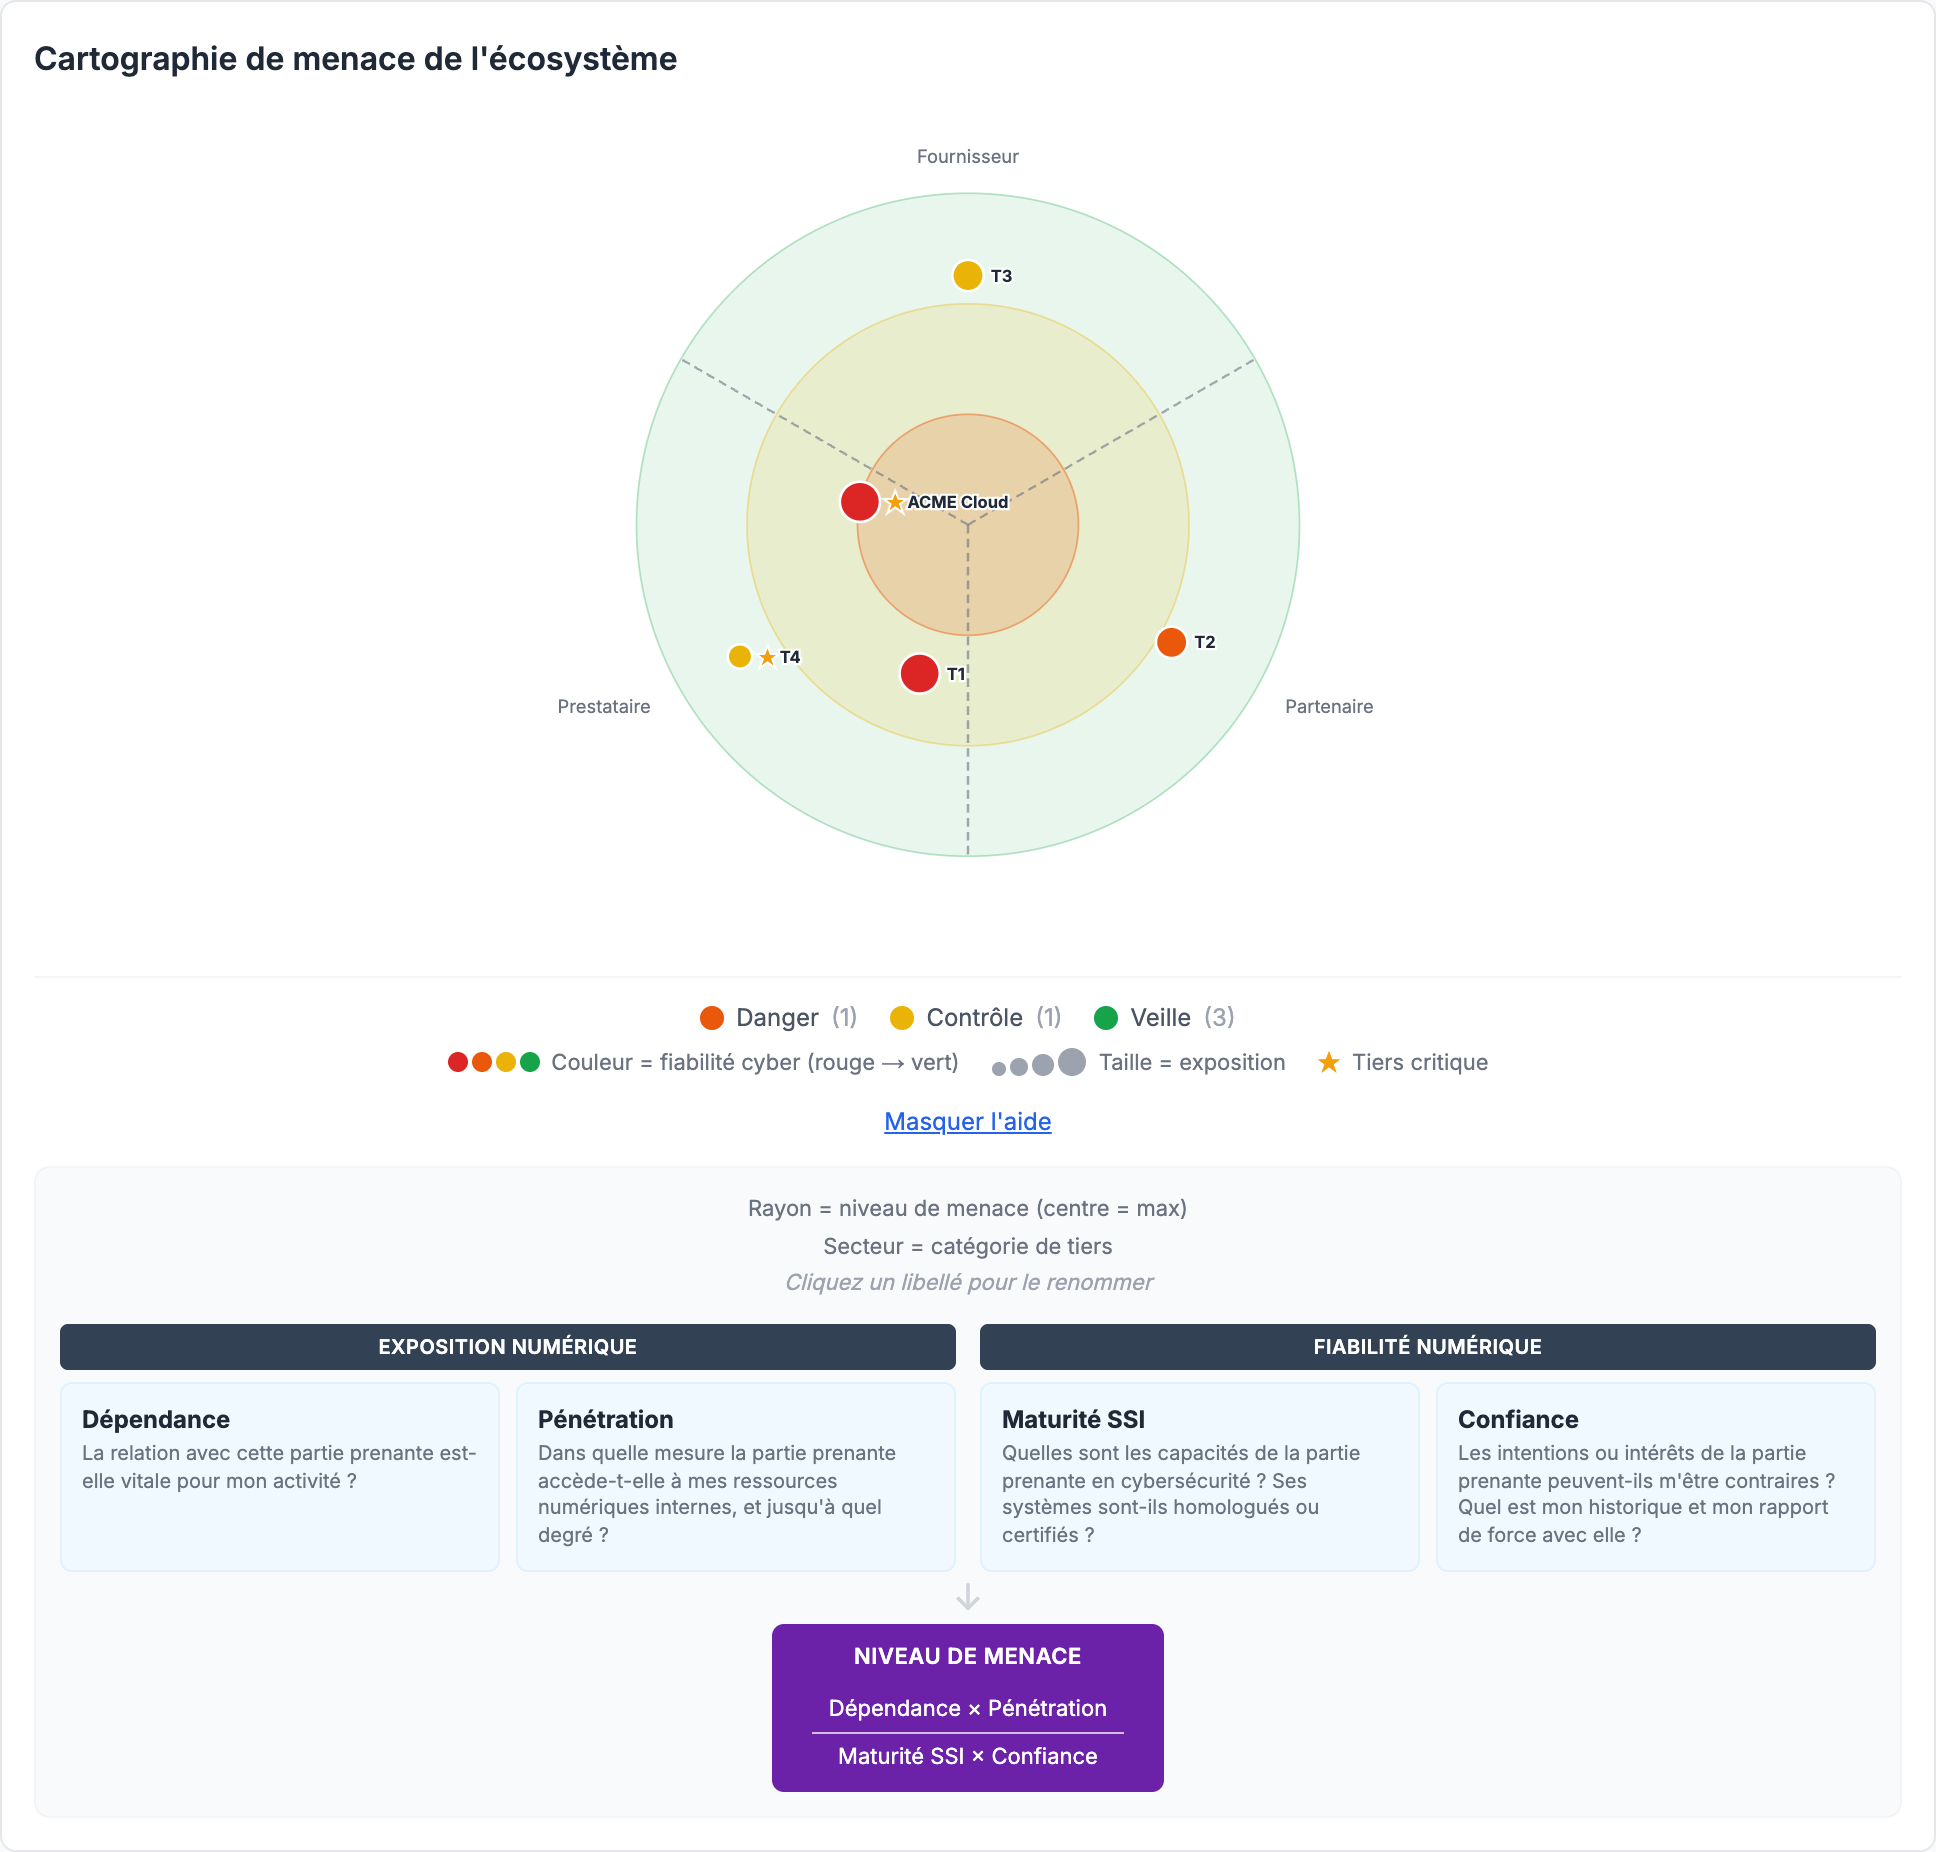
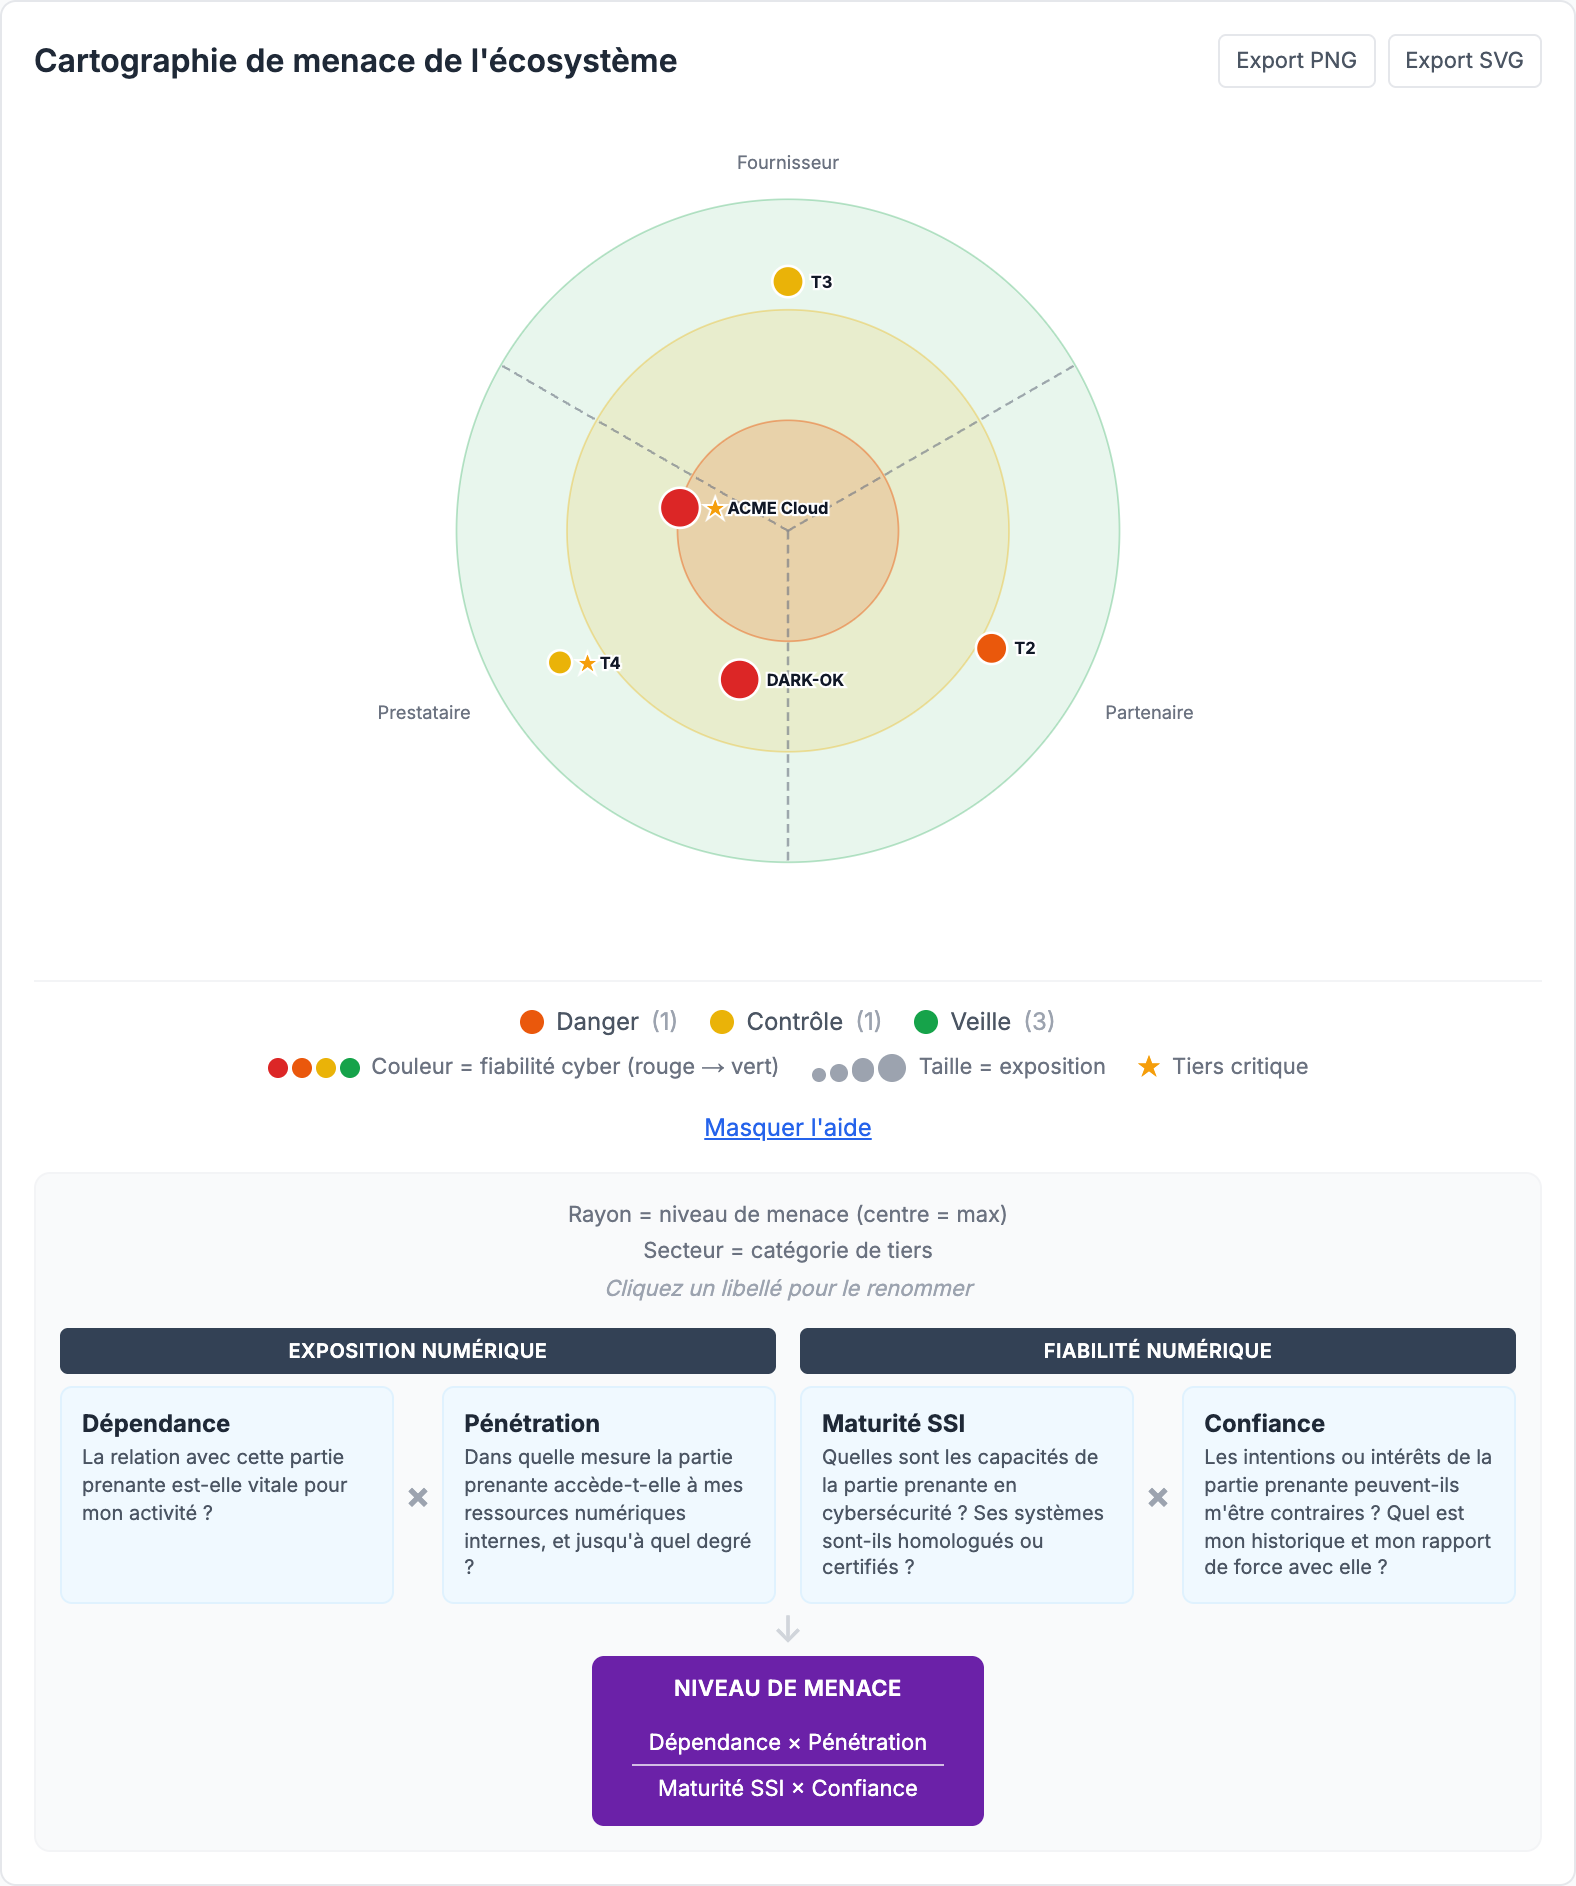
fix(radar): lisibilité thème sombre + schéma de calcul + bulle + édition inline
- Thème sombre : variantes dark: sur la carte radar, les boutons d'export, la
  légende, le panneau d'aide, les libellés SVG (fill/halo), le schéma de calcul
  et l'info-bulle — tout devient lisible en sombre.
- Schéma de calcul du niveau de menace : les TITRES des 4 critères (Dépendance,
  Pénétration, Maturité SSI, Confiance) sont désormais visibles au-dessus de leur
  description, et un signe « × » explicite la multiplication de chaque groupe
  (exposition = dépendance × pénétration, fiabilité = maturité × confiance).
- Info-bulle de survol : agrandie (210×140), nom long du tiers sur sa propre ligne,
  sous-critères répartis sur 2 lignes (plus de texte tronqué).
- Édition inline du nom court : la bulle de survol est rendue AVANT les points pour
  ne plus intercepter le clic sur le libellé (foreignObject bloquait pointer-events).
  Vérifié en runtime (modification persistée).

tsc + 348 tests verts · build OK.

diff --git a/src/components/EcosystemRadar.tsx b/src/components/EcosystemRadar.tsx
@@ -142,14 +142,14 @@ export default function EcosystemRadar({ parties, onSelect, showRefs = true, hid
   }
 
   return (
-    <div className="rounded-lg border border-gray-200 bg-white p-4">
+    <div className="rounded-lg border border-gray-200 bg-white p-4 dark:border-gray-700">
       <div className="mb-3 flex items-center justify-between gap-2">
-        {!hideHeader ? <h3 className="font-semibold text-gray-800">{r.title}</h3> : <span />}
+        {!hideHeader ? <h3 className="font-semibold text-gray-800 dark:text-gray-100">{r.title}</h3> : <span />}
         <div className="flex items-center gap-1.5">
           <button type="button" onClick={exportPNG}
-            className="rounded border border-gray-200 px-2 py-1 text-[11px] text-gray-600 hover:bg-gray-50">{r.exportPng}</button>
+            className="rounded border border-gray-200 px-2 py-1 text-[11px] text-gray-600 hover:bg-gray-50 dark:border-gray-600 dark:text-gray-300 dark:hover:bg-gray-700">{r.exportPng}</button>
           <button type="button" onClick={exportSVG}
-            className="rounded border border-gray-200 px-2 py-1 text-[11px] text-gray-600 hover:bg-gray-50">{r.exportSvg}</button>
+            className="rounded border border-gray-200 px-2 py-1 text-[11px] text-gray-600 hover:bg-gray-50 dark:border-gray-600 dark:text-gray-300 dark:hover:bg-gray-700">{r.exportSvg}</button>
         </div>
       </div>
 
@@ -186,13 +186,43 @@ export default function EcosystemRadar({ parties, onSelect, showRefs = true, hid
                     stroke="#6b7280" strokeOpacity={0.6} strokeWidth={1.3} strokeDasharray="5 3" />
                 )}
                 <text x={lx} y={ly} textAnchor={anchor} dominantBaseline="middle"
-                  className="fill-gray-500" fontSize={10.5}>
+                  className="fill-gray-500 dark:fill-gray-400" fontSize={10.5}>
                   {shortLabel(typeLabel(ty))}
                   <title>{typeLabel(ty)}</title>
                 </text>
               </g>
             )
           })}
+
+          {/* Détail au survol — rendu AVANT les points pour ne pas intercepter le clic
+              d'édition du libellé (foreignObject bloque parfois pointer-events). */}
+          {active && editing === null && (() => {
+            const a3 = t.workshop.a3
+            const aR = EXPO_RADIUS[expositionLevel(active.exposition, bornes.maxExpo)]
+            const tipW = 210, tipH = 140
+            const VB_L = -58, VB_R = 538, VB_B = 480
+            let tx = active.x + aR + 2
+            if (tx + tipW > VB_R) tx = active.x - aR - tipW - 2
+            tx = Math.max(VB_L, Math.min(tx, VB_R - tipW))
+            let ty = active.y - tipH - 2
+            if (ty < 2) ty = active.y + aR + 2
+            ty = Math.max(2, Math.min(ty, VB_B - tipH))
+            return (
+              <foreignObject x={tx} y={ty} width={tipW} height={tipH} style={{ pointerEvents: 'none', overflow: 'visible' }}>
+                <div className="inline-block rounded-md border border-gray-200 bg-white/95 p-2 text-[10px] leading-snug shadow-md dark:border-gray-700 dark:bg-gray-800/95">
+                  <div className="flex items-center gap-1">
+                    <span className="rounded bg-gray-200 px-1 py-px text-[9px] font-bold text-gray-700 dark:bg-gray-700 dark:text-gray-200">{active.nomCourt || active.ref}</span>
+                    <span className="text-gray-500 dark:text-gray-400">{typeLabel(active.type)}</span>
+                  </div>
+                  <div className="mt-0.5 font-semibold text-gray-800 dark:text-gray-100">{active.nom}</div>
+                  <div className="mt-1 text-gray-600 dark:text-gray-300">{a3.ppDependanceLabel} {active.dependance.toFixed(1)} · {a3.ppPenetrationLabel} {active.penetration.toFixed(1)}</div>
+                  <div className="text-gray-600 dark:text-gray-300">{a3.ppMaturiteLabel} {active.maturite.toFixed(1)} · {a3.ppConfianceLabel} {active.confiance.toFixed(1)}</div>
+                  <div className="mt-0.5 text-gray-600 dark:text-gray-300">{a3.ppExpLabel} {active.exposition.toFixed(1)} · {a3.ppFiabLabel} {active.fiabilite.toFixed(1)}</div>
+                  <div className="font-semibold" style={{ color: ZONE_COLOR[active.zone] }}>{r.menaceLabel} {active.menace.toFixed(2)}</div>
+                </div>
+              </foreignObject>
+            )
+          })()}
 
           {/* Points = parties prenantes. Couleur = fiabilité · taille = exposition ·
               ★ (avant le libellé) = tiers critique · libellé = nom court ou réf T1… */}
@@ -240,12 +270,13 @@ export default function EcosystemRadar({ parties, onSelect, showRefs = true, hid
                     />
                   </foreignObject>
                 ) : (
-                  // ★ (si critique) juste avant le libellé, à droite du point — halo blanc.
+                  // ★ (si critique) juste avant le libellé, à droite du point — halo
+                  // (blanc en clair, sombre en thème sombre) pour rester lisible sur les zones.
                   <text
                     x={labelX} y={p.y + 3.5}
                     fontSize={isActive ? 11 : 9.5} fontWeight={700}
-                    fill="#1f2937" stroke="#ffffff" strokeWidth={2.5}
-                    paintOrder="stroke"
+                    strokeWidth={2.5} paintOrder="stroke"
+                    className="fill-gray-900 [stroke:#fff] dark:fill-gray-50 dark:[stroke:#0f172a]"
                     onClick={editable ? (e => { e.stopPropagation(); setEditing(p.id) }) : undefined}
                     style={{ cursor: editable ? 'text' : 'default', pointerEvents: editable ? 'auto' : 'none' }}
                   >
@@ -256,47 +287,12 @@ export default function EcosystemRadar({ parties, onSelect, showRefs = true, hid
               </g>
             )
           })}
-
-          {/* Détail au survol — bulle au coin du point, qui bascule pour rester dans le cadre */}
-          {active && editing === null && (() => {
-            const aR = EXPO_RADIUS[expositionLevel(active.exposition, bornes.maxExpo)]
-            const tipW = 176, tipH = 96
-            const VB_L = -58, VB_R = 538, VB_B = 480
-            // Par défaut à droite ; bascule à gauche si ça déborderait.
-            let tx = active.x + aR + 2
-            if (tx + tipW > VB_R) tx = active.x - aR - tipW - 2
-            tx = Math.max(VB_L, Math.min(tx, VB_R - tipW))
-            // Par défaut au-dessus ; bascule en dessous si ça déborderait en haut.
-            let ty = active.y - tipH - 2
-            if (ty < 2) ty = active.y + aR + 2
-            ty = Math.max(2, Math.min(ty, VB_B - tipH))
-            return (
-              <foreignObject x={tx} y={ty} width={tipW} height={tipH} style={{ pointerEvents: 'none' }}>
-                <div className="rounded-md border border-gray-200 bg-white/95 p-2 text-[10px] leading-tight shadow-sm">
-                  <div className="font-semibold text-gray-800">
-                    <span className="mr-1 rounded bg-gray-200 px-1 py-px text-[9px] font-bold text-gray-700">{active.nomCourt || active.ref}</span>
-                    {active.nom}
-                  </div>
-                  <div className="text-gray-500">{typeLabel(active.type)}</div>
-                  <div className="mt-1 text-gray-600">
-                    {t.workshop.a3.ppDependanceLabel} {active.dependance.toFixed(1)} · {t.workshop.a3.ppPenetrationLabel} {active.penetration.toFixed(1)} · {t.workshop.a3.ppMaturiteLabel} {active.maturite.toFixed(1)} · {t.workshop.a3.ppConfianceLabel} {active.confiance.toFixed(1)}
-                  </div>
-                  <div className="text-gray-600">
-                    {t.workshop.a3.ppExpLabel} {active.exposition.toFixed(1)} · {t.workshop.a3.ppFiabLabel} {active.fiabilite.toFixed(1)}
-                  </div>
-                  <div className="font-semibold" style={{ color: ZONE_COLOR[active.zone] }}>
-                    {r.menaceLabel} {active.menace.toFixed(2)}
-                  </div>
-                </div>
-              </foreignObject>
-            )
-          })()}
         </svg>
 
         {/* Légende compacte (sous le radar) + aide dépliable */}
-        <div className="w-full border-t border-gray-100 pt-3">
+        <div className="w-full border-t border-gray-100 pt-3 dark:border-gray-700">
           {/* Ligne 1 — zones de menace (anneaux) */}
-          <div className="flex flex-wrap items-center justify-center gap-x-4 gap-y-1 text-xs text-gray-600">
+          <div className="flex flex-wrap items-center justify-center gap-x-4 gap-y-1 text-xs text-gray-600 dark:text-gray-300">
             {([
               ['danger', r.zoneDanger],
               ['controle', r.zoneControle],
@@ -305,12 +301,12 @@ export default function EcosystemRadar({ parties, onSelect, showRefs = true, hid
               <span key={z} className="inline-flex items-center gap-1.5">
                 <span className="inline-block h-3 w-3 rounded-full" style={{ backgroundColor: ZONE_COLOR[z] }} aria-hidden="true" />
                 {label}
-                <span className="text-gray-400">({points.filter(p => p.zone === z).length})</span>
+                <span className="text-gray-400 dark:text-gray-500">({points.filter(p => p.zone === z).length})</span>
               </span>
             ))}
           </div>
           {/* Ligne 2 — encodage des points */}
-          <div className="mt-1.5 flex flex-wrap items-center justify-center gap-x-4 gap-y-1 text-[11px] text-gray-500">
+          <div className="mt-1.5 flex flex-wrap items-center justify-center gap-x-4 gap-y-1 text-[11px] text-gray-500 dark:text-gray-400">
             <span className="inline-flex items-center gap-1.5">
               <span className="flex gap-0.5" aria-hidden="true">
                 {FIAB_COLOR.map(c => <span key={c} className="inline-block h-2.5 w-2.5 rounded-full" style={{ backgroundColor: c }} />)}
@@ -332,17 +328,17 @@ export default function EcosystemRadar({ parties, onSelect, showRefs = true, hid
           <div className="mt-2 text-center">
             <button type="button" onClick={() => setShowHelp(v => !v)}
               aria-expanded={showHelp}
-              className="text-xs text-blue-600 underline hover:text-blue-800">
+              className="text-xs text-blue-600 underline hover:text-blue-800 dark:text-blue-400 dark:hover:text-blue-300">
               {showHelp ? r.helpHide : r.helpToggle}
             </button>
           </div>
           {showHelp && (
-            <div className="mt-3 space-y-3 rounded-lg border border-gray-100 bg-gray-50 p-3">
-              <div className="space-y-0.5 text-center text-[11px] text-gray-500">
+            <div className="mt-3 space-y-3 rounded-lg border border-gray-100 bg-gray-50 p-3 dark:border-gray-700 dark:bg-gray-900/40">
+              <div className="space-y-0.5 text-center text-[11px] text-gray-500 dark:text-gray-400">
                 <div>{r.radiusLegend}</div>
                 <div>{r.sectorLegend}</div>
-                {editable && <div className="italic text-gray-400">{r.editHint}</div>}
-                {aggregated && <div className="italic text-gray-400">{r.multiLegend}</div>}
+                {editable && <div className="italic text-gray-400 dark:text-gray-500">{r.editHint}</div>}
+                {aggregated && <div className="italic text-gray-400 dark:text-gray-500">{r.multiLegend}</div>}
               </div>
               <MenaceFormulaDiagram />
             </div>

diff --git a/src/components/MenaceFormulaDiagram.tsx b/src/components/MenaceFormulaDiagram.tsx
@@ -6,16 +6,30 @@
  *
  *   menace = (Dépendance × Pénétration) / (Maturité cyber × Confiance)
  *
- * Reproduit en HTML/Tailwind (pas une image) le schéma de la fiche méthode.
- * Affiché dans la légende dépliable du radar d'écosystème.
+ * Reproduit en HTML/Tailwind (pas une image) le schéma de la fiche méthode,
+ * avec le détail de chaque multiplication. Compatible thème clair/sombre.
  */
 import { useTranslation } from '@/lib/i18n/context'
 
 function Critere({ titre, question }: { titre: string; question: string }) {
   return (
-    <div className="flex-1 rounded-md border border-sky-100 bg-sky-50 p-2.5 text-left">
-      <div className="text-xs font-bold text-gray-800">{titre}</div>
-      <div className="mt-0.5 text-[10px] leading-snug text-gray-500">{question}</div>
+    <div className="flex-1 rounded-md border border-sky-100 bg-sky-50 p-2.5 text-left dark:border-slate-600 dark:bg-slate-800">
+      <div className="text-xs font-bold text-gray-800 dark:text-gray-100">{titre}</div>
+      <div className="mt-0.5 text-[10px] leading-snug text-gray-600 dark:text-gray-300">{question}</div>
+    </div>
+  )
+}
+
+/** Un groupe = deux critères reliés par « × » (exposition ou fiabilité). */
+function Groupe({ titre, gauche, droite }: { titre: string; gauche: { t: string; q: string }; droite: { t: string; q: string } }) {
+  return (
+    <div>
+      <div className="mb-1.5 rounded bg-slate-700 py-1 text-[10px] font-semibold uppercase tracking-wide text-white dark:bg-slate-600">{titre}</div>
+      <div className="flex items-stretch gap-1.5">
+        <Critere titre={gauche.t} question={gauche.q} />
+        <span className="flex items-center text-lg font-bold text-gray-400 dark:text-gray-500" aria-hidden="true">×</span>
+        <Critere titre={droite.t} question={droite.q} />
+      </div>
     </div>
   )
 }
@@ -27,28 +41,18 @@ export default function MenaceFormulaDiagram() {
   return (
     <div className="text-center">
       <div className="grid grid-cols-1 gap-3 sm:grid-cols-2">
-        {/* Exposition numérique = Dépendance × Pénétration */}
-        <div>
-          <div className="mb-1.5 rounded bg-slate-700 py-1 text-[10px] font-semibold uppercase tracking-wide text-white">{r.formulaExpoTitle}</div>
-          <div className="flex gap-2">
-            <Critere titre={a3.ppDependanceLabel} question={r.formulaDepQ} />
-            <Critere titre={a3.ppPenetrationLabel} question={r.formulaPenQ} />
-          </div>
-        </div>
-        {/* Fiabilité numérique = Maturité cyber × Confiance */}
-        <div>
-          <div className="mb-1.5 rounded bg-slate-700 py-1 text-[10px] font-semibold uppercase tracking-wide text-white">{r.formulaFiabTitle}</div>
-          <div className="flex gap-2">
-            <Critere titre={a3.ppMaturiteLabel} question={r.formulaMatQ} />
-            <Critere titre={a3.ppConfianceLabel} question={r.formulaConfQ} />
-          </div>
-        </div>
+        <Groupe titre={r.formulaExpoTitle}
+          gauche={{ t: a3.ppDependanceLabel, q: r.formulaDepQ }}
+          droite={{ t: a3.ppPenetrationLabel, q: r.formulaPenQ }} />
+        <Groupe titre={r.formulaFiabTitle}
+          gauche={{ t: a3.ppMaturiteLabel, q: r.formulaMatQ }}
+          droite={{ t: a3.ppConfianceLabel, q: r.formulaConfQ }} />
       </div>
 
-      <div aria-hidden="true" className="my-1 text-lg leading-none text-gray-300">↓</div>
+      <div aria-hidden="true" className="my-1 text-lg leading-none text-gray-300 dark:text-gray-600">↓</div>
 
       {/* Niveau de menace = exposition / fiabilité (fraction) */}
-      <div className="inline-block rounded-md bg-purple-800 px-5 py-2 text-white">
+      <div className="inline-block rounded-md bg-purple-800 px-5 py-2 text-white dark:bg-purple-700">
         <div className="mb-1 text-[11px] font-semibold uppercase tracking-wide">{r.formulaMenaceTitle}</div>
         <div className="inline-flex flex-col items-center text-[11px]">
           <span className="px-2 py-0.5">{a3.ppDependanceLabel} × {a3.ppPenetrationLabel}</span>